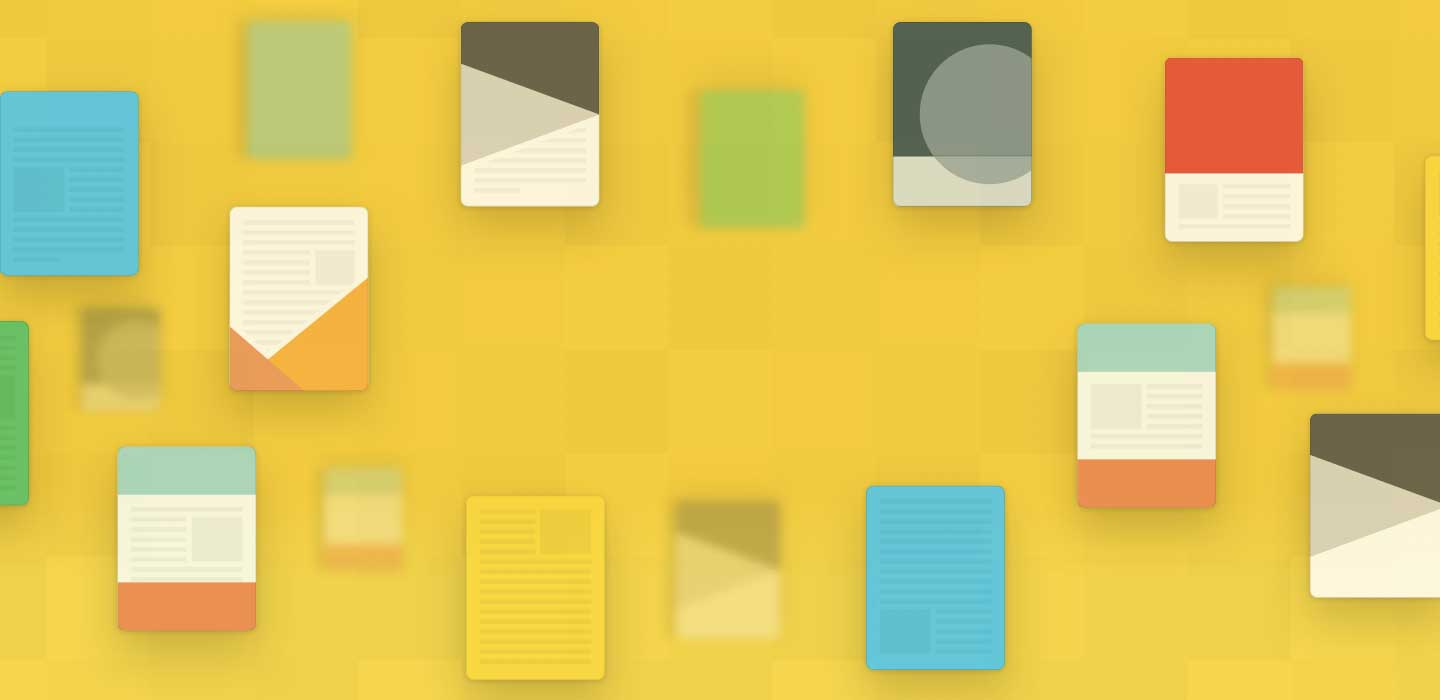
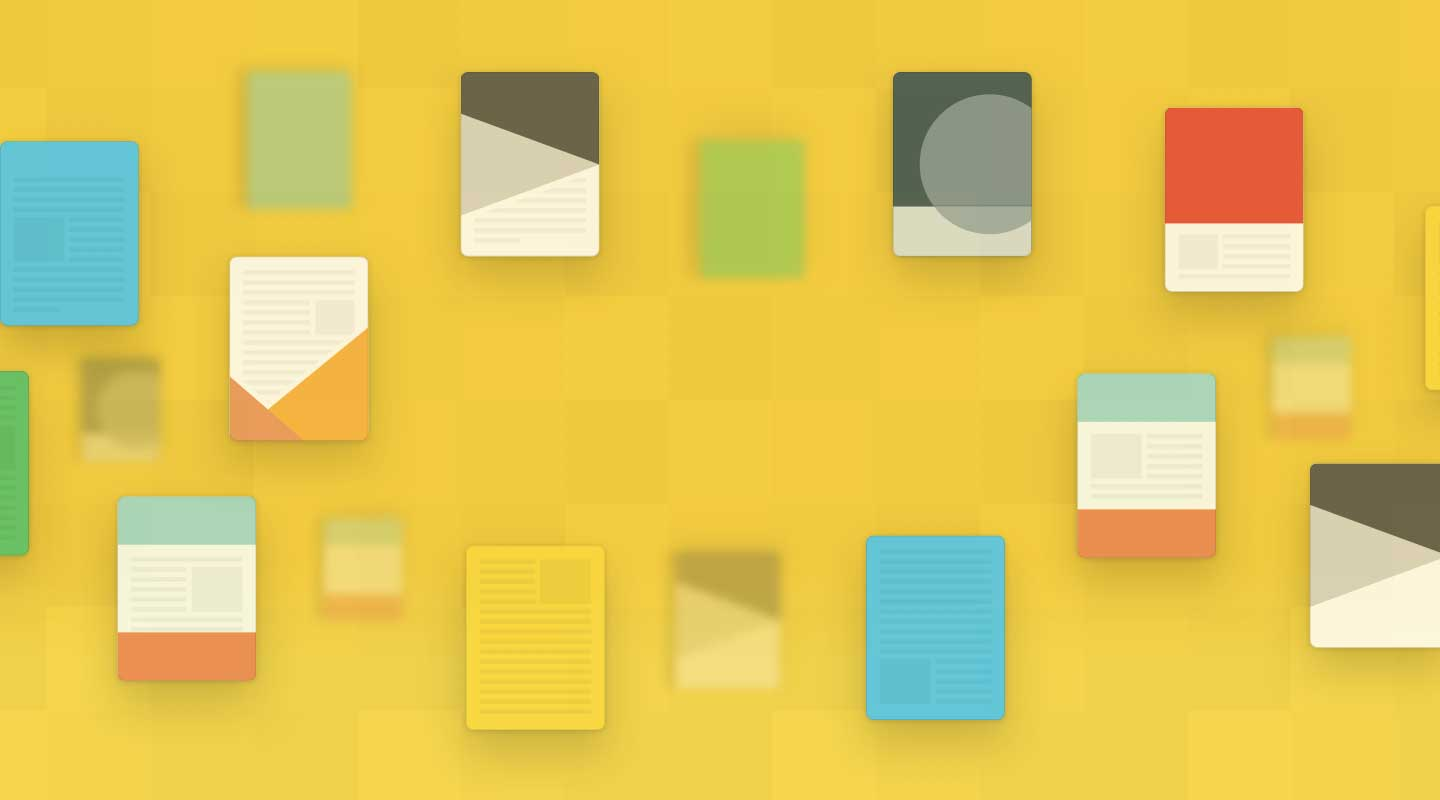
dv

diff --git a/digivalet.html b/digivalet.html
@@ -2,20 +2,19 @@
 <html lang="en">
 <head>
 <meta charset="utf-8">
-<title>Whink</title>
+<title>Digivalet Hotel Solution by Toffeenut Design</title>
 <meta name="viewport" content="width=device-width, initial-scale=1.0">
 <meta name="description" content="portfolio of toffeenut design studio">
 <meta name="author" content="toffeenutdesign">
 
 <!-- Standard Favicon--> 
-<link rel="shortcut icon" href="images/favicon/favicon.ico.html">
+<link rel="shortcut icon" href="images/favicon.ico">
 
 <!-- Bootstrap CSS Files -->
 <link href="bootstrap/css/bootstrap.css" rel="stylesheet">
 <!-- Custom Fonts Setup via Font-face CSS3 -->
 <link href="fonts/fonts.css" rel="stylesheet">
 <!-- CSS files for plugins -->
-<link href="stylesheets/pace.preloader.css" rel="stylesheet">
 <link href="stylesheets/ionicons.min.css" rel="stylesheet">
 <link href="stylesheets/slimmenu.css" rel="stylesheet"/>
 <link href="stylesheets/navmenu.css" rel="stylesheet">
@@ -62,13 +61,13 @@
 <section id="mastwrap" class="mastwrap">
 
 
-<section class="page-fold about-bg subtle fullheight">  
+<section class="page-fold about2-bg subtle fullheight">  
   <div class="valign">
     
   <div class="container">
     <div class="row">
         <article class="text-center col-md-12">
-          <h1 class="page-heading font4bold black">Whink</h1>
+          <h1 class="page-heading font4bold black">Digivalet</h1>
         </article>
     </div>
   </div>
@@ -81,11 +80,11 @@
   <div class="container">
     <div class="row">
         <article class="text-center col-md-8 col-md-offset-2">
-            <h1 class="minimal-caps font4 black add-top-quarter">Redefining Digital Note-taking</h1>
+            <h1 class="minimal-caps font4 black add-top-quarter">Broke through the hospitality industry</h1>
         </article>
         <article class="text-center col-md-8 col-md-offset-2">
             <p class="head-subline add-top-quarter">
-            	Whink is an iOS app to create beautiful notes effortlessly. We were brought in to help with the <b>overall product design and vision</b>: an iOS app suite, with its flagship iPad app, App Store collaterals, as well as branding.
+            	Digivalet is a full hotel automation solution for luxury hotels. In 2008, we were brought in to guide the <b>user experience design of multiple iOS-based apps and web-based backends and dashboards</b>. 
             </p>
         </article>
     </div>
@@ -95,19 +94,17 @@
 
 
 
-<section class="process process-bg parallax">
+<section class="process process2-bg parallax">
   <div class="separator-section">
     
     <div class="container">
         <div class="row">
             <article class="col-md-10 col-md-offset-1 text-center">
-				<img src="images/reco.svg"/>
-	          <br>
-	          <h1 class="process-text white font4thin">
-	          Editor's Choice. <br>
-	          Best of Month. <br>
-	          Among Best of Year. <br>
-	          </h1>
+				<h1 class="process-text white font4thin">
+	          		<br>
+	          		Simplifying the complex
+	          		<br><br>
+	          	</h1>
 	     
             </article>
         </div>
@@ -119,54 +116,61 @@
 
 
 <section class="page-section white-bg">
-	<div class="container">
-	<div class="row">
-    	<article class="text-center col-md-10 col-md-offset-1">
-        	<h1 class="minimal-caps font4 black add-top-quarter">STORY</h1>
+	<div id="wall-showcase" class="wall-showcase">
+
+	<div class="container">	
+    	<article class="text-center col-md-8 col-md-offset-2">
+        	<h1 class="minimal-caps font4 black add-top-quarter">Behind the Scenes</h1>
         	<p class="head-subline add-top-quarter">
-        	Ambi tioni dedisse scrip sisse iudi caretur. Nec dubi tamus multa iter quae et nos invenerat. Fabio vel iudice vincam, sunt in culpa qui officia. Ambi tioni dedisse scrip sisse iudi caretur. Cura bitur blandit tempus ardua ridiculus sed magna.
+        	Digivalet has come a long way from the 1st version nearly 10 years ago. With its now dozens of features, the challenge was to simplify the complex structure enough, to be a <b>pick-up-and-use type of product especially for a short-term hotel guest</b>.
         	</p>
     	</article>
+    </div>
+    	
+    <br><br><br>
+	
+	<article class="text-center col-md-10 col-md-offset-1">
+		<!-- start : works-item 100%-->
+	    <div class="works-item wall-portfolio-item wall-portfolio-item-05 w4">
+	    </div>
+	    <!-- end : works-item -->
+	</article>
+				
+	<div class="container">	
+		<article class="text-center col-md-8 col-md-offset-2">
+		<br><br>
+	    	<p class="head-subline add-top-quarter">
+	    	Designing custom solutions for the best in hospitality.
+	    	</p>
+	    <br><br>
+		</article>
 	</div>
+	
+	<article class="text-center col-md-10 col-md-offset-1">
+	    <!-- start : works-item 100%-->
+	    <div class="works-item wall-portfolio-item wall-portfolio-item-06 w4">
+	    </div>
+	    <!-- end : works-item -->
+	</article>
+	
+	<div class="container">	
+		<article class="text-center col-md-10 col-md-offset-1">
+		<br><br>
+	    	<p class="head-subline add-top-quarter">
+	    	From media catalogs to flight bookings to food ordering, we've thought through and designed them all.
+	    	</p>
+	    <br><br>
+		</article>
 	</div>
-	
-	    	<article class="text-center col-md-10 col-md-offset-1">
-	
-		  	<div id="wall-showcase" class="wall-showcase">
-	    
-				<!-- start : works-item 25%-->
-			    <div class="works-item wall-portfolio-item wall-portfolio-item-01">
-			    </div>
-			    <!-- end : works-item -->
-			
-			    <!-- start : works-item 50%-->
-			    <div class="works-item wall-portfolio-item wall-portfolio-item-02 w2">
-			
-			    </div>
-			    <!-- end : works-item -->
-			
-			    <!-- start : works-item 25%-->
-			    <div class="works-item wall-portfolio-item wall-portfolio-item-03">
-			    </div>
-			    <!-- end : works-item -->
-			
-				<!-- start : works-item 100%-->
-			    <div class="works-item wall-portfolio-item wall-portfolio-item-04 w4">
-			    </div>
-			    <!-- end : works-item -->
-			
-			    <!-- start : works-item 50%-->
-			    <div class="works-item wall-portfolio-item wall-portfolio-item-08 w2">
-			    </div>
-			    <!-- end : works-item -->
-			
-			    <!-- start : works-item 50%-->
-			    <div class="works-item wall-portfolio-item wall-portfolio-item-09 w2">
-			    </div>
-			    <!-- end : works-item -->
-	
-			</div>				
-			</article>
+
+	<article class="text-center col-md-10 col-md-offset-1">
+	    <!-- start : works-item 100%-->
+	    <div class="works-item wall-portfolio-item wall-portfolio-item-07 w4">
+	    </div>
+	    <!-- end : works-item -->
+	</article>
+
+	</div>
 </section>
 
 
@@ -196,9 +200,17 @@
 
 </section>
 
+<!--ANALYTICS-->
+<script>
+  (function(i,s,o,g,r,a,m){i['GoogleAnalyticsObject']=r;i[r]=i[r]||function(){
+  (i[r].q=i[r].q||[]).push(arguments)},i[r].l=1*new Date();a=s.createElement(o),
+  m=s.getElementsByTagName(o)[0];a.async=1;a.src=g;m.parentNode.insertBefore(a,m)
+  })(window,document,'script','https://www.google-analytics.com/analytics.js','ga');
 
-<!-- Master Wrap : ends -->
+  ga('create', 'UA-5367166-2', 'auto');
+  ga('send', 'pageview');
 
+</script>
 
 
 <!-- Core JS Libraries -->

diff --git a/stylesheets/main-bg.css b/stylesheets/main-bg.css
@@ -1,7 +1,7 @@
 /*MAIN-BG.CSS*/
 
 /*--------------------------------------------------------------*/
-/* INTRO VARIANTS */
+/* INTRO VARIANTS FOR WHAT? */ 
 /*--------------------------------------------------------------*/
 .intro01-bg{
 	background-image: url('../images/promo/01.jpg');
@@ -40,120 +40,49 @@
 }
 
 /*--------------------------------------------------------------*/
-/* PRODUCT VIEW */
-/*--------------------------------------------------------------*/
-
-.product-showcase-item-01{
-	background-image: url('../images/product/01.jpg');
-}
-.product-showcase-item-02{
-	background-image: url('../images/product/02.jpg');
-}
-.product-showcase-item-03{
-	background-image: url('../images/product/03.jpg');
-}
-.product-showcase-item-04{
-	background-image: url('../images/product/04.jpg');
-}
-.product-showcase-item-05{
-	background-image: url('../images/product/05.jpg');
-}
-.product-showcase-item-06{
-	background-image: url('../images/product/06.jpg.html');
-}
-.product-promo-bg{
-	background-image: url('../images/product/main.jpg');
-}
-/*--------------------------------------------------------------*/
 /* PAGES AND SECTIONS */
 /*--------------------------------------------------------------*/
 
 .about-bg{
 	background-image: url('../images/promo/02.jpg');
 }
+.about2-bg{
+	background-image: url('../images/promo/03.jpg');
+}
 .process-bg{
 	background-image: url('../images/product/bgwhink.jpg');
 }
-.services-bg{
-	background-image: url('../images/bg/14.jpg');
-}
-.team-bg{
-	background-image: url('../images/bg/11.jpg');
-}
-.pricing-bg{
-	background-image: url('../images/bg/11.jpg');
-}
-.news-bg{
-	background-image: url('../images/bg/16.jpg');
-}
-.contact-bg{
-	background-image: url('../images/bg/15.jpg');
-}
-.boxed-bg{
-	background-image: url('../images/bg/23.jpg');
-}
-.service-icon-bg-01:hover{
-	background-image: url('../images/services/01.jpg');
-}
-.service-icon-bg-02:hover{
-	background-image: url('../images/services/02.jpg');
-}
-.service-icon-bg-03:hover{
-	background-image: url('../images/services/03.jpg');
-}
-.service-icon-bg-04:hover{
-	background-image: url('../images/services/04.jpg');
-}
-.service-icon-bg-05:hover{
-	background-image: url('../images/services/05.jpg');
-}
-.service-icon-bg-06:hover{
-	background-image: url('../images/services/06.jpg');
-}
-.news-list-01:hover{
-	background-image:url('../images/news/01.jpg') !important; 
-}
-.news-list-02:hover{
-	background-image:url('../images/news/02.jpg') !important;  
-}
-.news-list-03:hover{
-	background-image:url('../images/news/03.jpg') !important;  
-}
-
-/*--------------------------------------------------------------*/
-/* MISC ELEMENTS */
-/*--------------------------------------------------------------*/
-.menu-bg{
-	background-image: url('../images/menu.jpg');
+.process2-bg{
+	background-image: url('../images/product/bgdigivalet.jpg');
 }
 
 /*--------------------------------------------------------------*/
 /* PORTFOLIO VARIANTS */
 /*--------------------------------------------------------------*/
 .wall-portfolio-item-01{
-	background-image: url('../images/product/whinkicon@2x.png');
+	background-image: url('../images/product/whinkicon.png');
 }
 .wall-portfolio-item-02{
-	background-image: url('../images/product/whinkassets@2x.png');
+	background-image: url('../images/product/whinkassets.png');
 }
 .wall-portfolio-item-03{
-	background-image: url('../images/product/whinkdark@2x.png');
+	background-image: url('../images/product/whinkdark.png');
 }
 .wall-portfolio-item-04{
-	background-image: url('../images/product/whinkuniversal@2x.png');
+	background-image: url('../images/product/whinkuniversal.png');
 }
 .wall-portfolio-item-05{
-	background-image: url('../images/product/');
+	background-image: url('../images/product/digiiphone.jpg');
 }
 .wall-portfolio-item-06{
-	background-image: url('../images/wall-portfolio/06.jpg');
+	background-image: url('../images/product/digilogos.png');
 }
 .wall-portfolio-item-07{
-	background-image: url('../images/wall-portfolio/07.jpg');
+	background-image: url('../images/product/digiipad.jpg');
 }
 .wall-portfolio-item-08{
-	background-image: url('../images/wall-portfolio/08.jpg');
+	background-image: url('../images/product/');
 }
 .wall-portfolio-item-09{
-	background-image: url('../images/wall-portfolio/09.jpg');
+	background-image: url('../images/product/');
 }

diff --git a/index.html b/index.html
@@ -75,7 +75,7 @@
     <div class="section white-bg fullheight text-center">
     	<div class="row">
             <article class="text-center col-md-12">
-                <p class="minimal-caps font4 black add-top-quarter">We are a small & passionate team who cares about the details.</p>
+                <p class="minimal-caps font4 black add-top-quarter">We are a small team who is passionate about the details.</p>
                 <div class="inner-spacer color-bg"></div>
                 <p class="head-subline add-top-quarter">Hello, I'm Angela! I began my journey as a freelancer who enjoyed creating icons and user interfaces. <b>Ten years of experience</b> later, I am now a <b>Certified User Experience Analyst</b> consulting with various companies and startups, collaborating with teams of talented and equally driven people, and still striving to craft meaningful and delightful digital experiences. <a href="mailto:hello@toffeenutdesign.com?Subject=Website Inquiry"><b>Let's work together</b></a>!</p>
             </article>
@@ -83,10 +83,12 @@
     </div>
     
     <div class="section white-bg showcase-01-layer-03 fullheight text-left">
-        <div class="title-holder">
-            <h1><span class="black-bg white font2 minimal-caps">DIGIVALET</span></h1>
-            <h6 class="head-subline dark-bg white font3">Digivalet broke through the hospitality industry by redefining the hotel guest experience. The app, since then, has been tailored fit for design requirements of Armani Hotels, The Ritz Carlton, The Address, Oberoi, ITC, Corinthia and others.</h6>
-        </div>
+        <a href="digivalet.html">
+        	<div class="title-holder">
+           	 <h1><span class="black-bg white font2 minimal-caps">DIGIVALET</span></h1>
+           	 <h6 class="head-subline dark-bg white font3">Digivalet broke through the hospitality industry by redefining the hotel guest experience. The app, since then, has been tailored fit for design requirements of Armani Hotels, The Ritz Carlton, The Address, Oberoi, ITC, Corinthia and others.</h6>
+        	</div>
+        </a>
     </div>
     
     <div class="section white-bg showcase-01-layer-04 fullheight text-left">

diff --git a/whink.html b/whink.html
@@ -2,7 +2,7 @@
 <html lang="en">
 <head>
 <meta charset="utf-8">
-<title>Whink</title>
+<title>Whink by Toffeenut Design</title>
 <meta name="viewport" content="width=device-width, initial-scale=1.0">
 <meta name="description" content="portfolio of toffeenut design studio">
 <meta name="author" content="toffeenutdesign">
